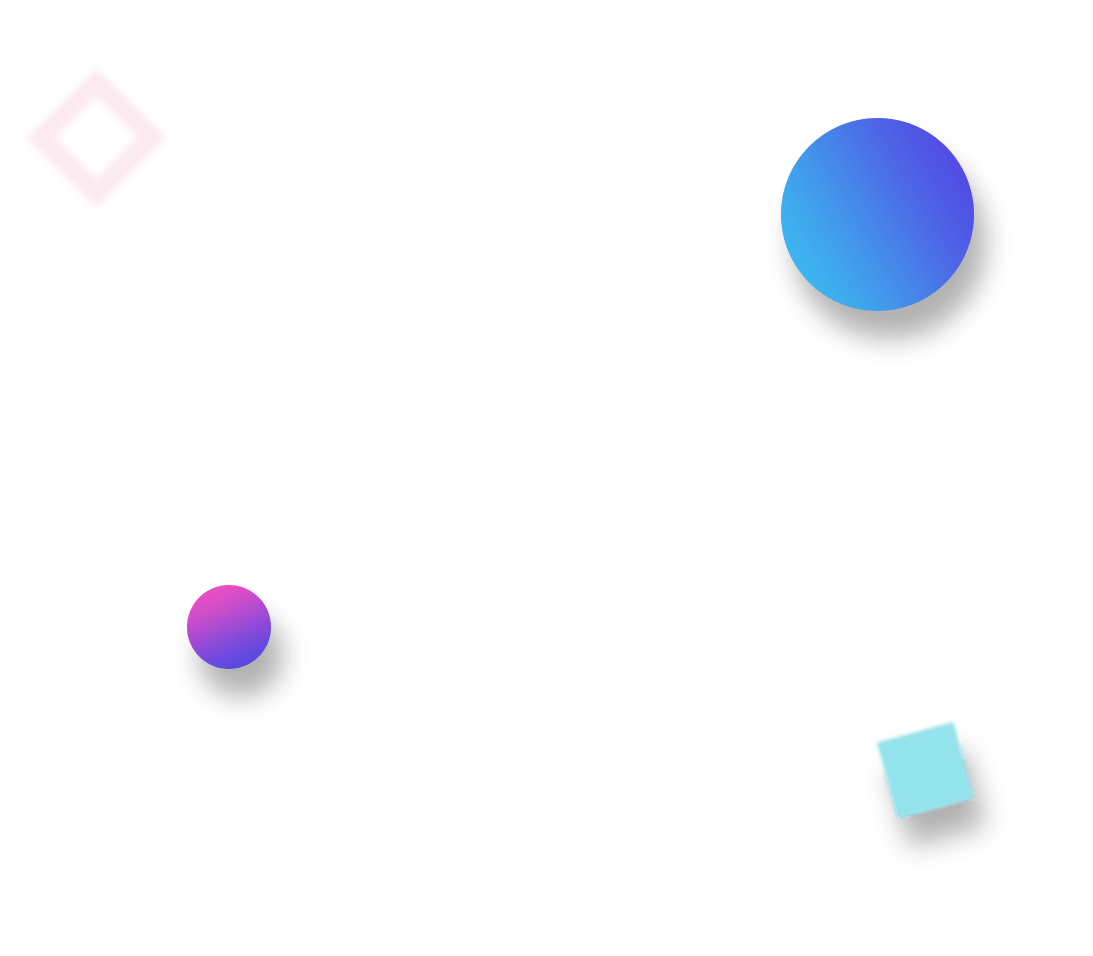
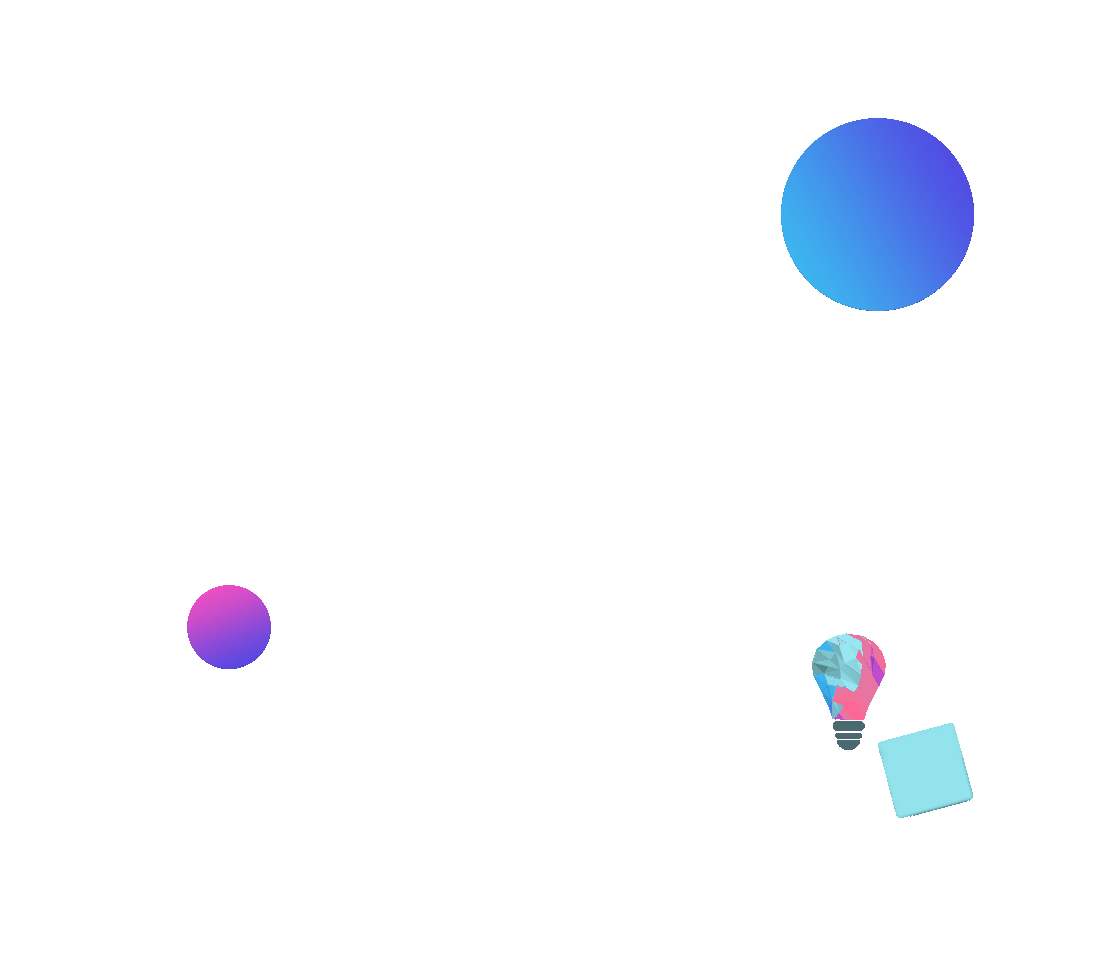
agregar boton messenger

diff --git a/index.html b/index.html
@@ -249,7 +249,7 @@
       </section>
       <!-- Our Services-->
       <section class="section-md bg-default text-center decor-text" id="features" data-content="Services">
-        <div class="bg-decor d-flex align-items-center" data-parallax-scroll="{&quot;x&quot;: 80,  &quot;smoothness&quot;: 30}"><img src="images/bg-decor-1.png" alt=""/>
+        <div class="bg-decor d-flex align-items-center" data-parallax-scroll="{&quot;x&quot;: 80,  &quot;smoothness&quot;: 30}"><img src="images/bg-decor-2.png" alt=""/>
         </div>
         <div class="container">
           <h4 class="heading-decorated">Nuestros servicios</h4>
@@ -629,6 +629,36 @@
           </div>
         </div>
       </section> -->
+
+      <!-- Boton messenger  -->
+      <!-- Load Facebook SDK for JavaScript -->
+      <div id="fb-root"></div>
+      <script>
+        window.fbAsyncInit = function() {
+          FB.init({
+            xfbml            : true,
+            version          : 'v9.0'
+          });
+        };
+
+        (function(d, s, id) {
+        var js, fjs = d.getElementsByTagName(s)[0];
+        if (d.getElementById(id)) return;
+        js = d.createElement(s); js.id = id;
+        js.src = 'https://connect.facebook.net/es_LA/sdk/xfbml.customerchat.js';
+        fjs.parentNode.insertBefore(js, fjs);
+      }(document, 'script', 'facebook-jssdk'));</script>
+
+      <!-- Your Chat Plugin code -->
+      <div class="fb-customerchat"
+        attribution=setup_tool
+        page_id="112086317203080"
+        theme_color="#6699cc"
+        logged_in_greeting="Hola! Mándanos un mensaje para saber más"
+        logged_out_greeting="Hola! Mándanos un mensaje para saber más">
+      </div>
+      <!-- /boton messenger -->
+
       <!-- Page Footer-->
       <section class="pre-footer-corporate bg-image-7 bg-overlay-darkest">
         <div class="container">
